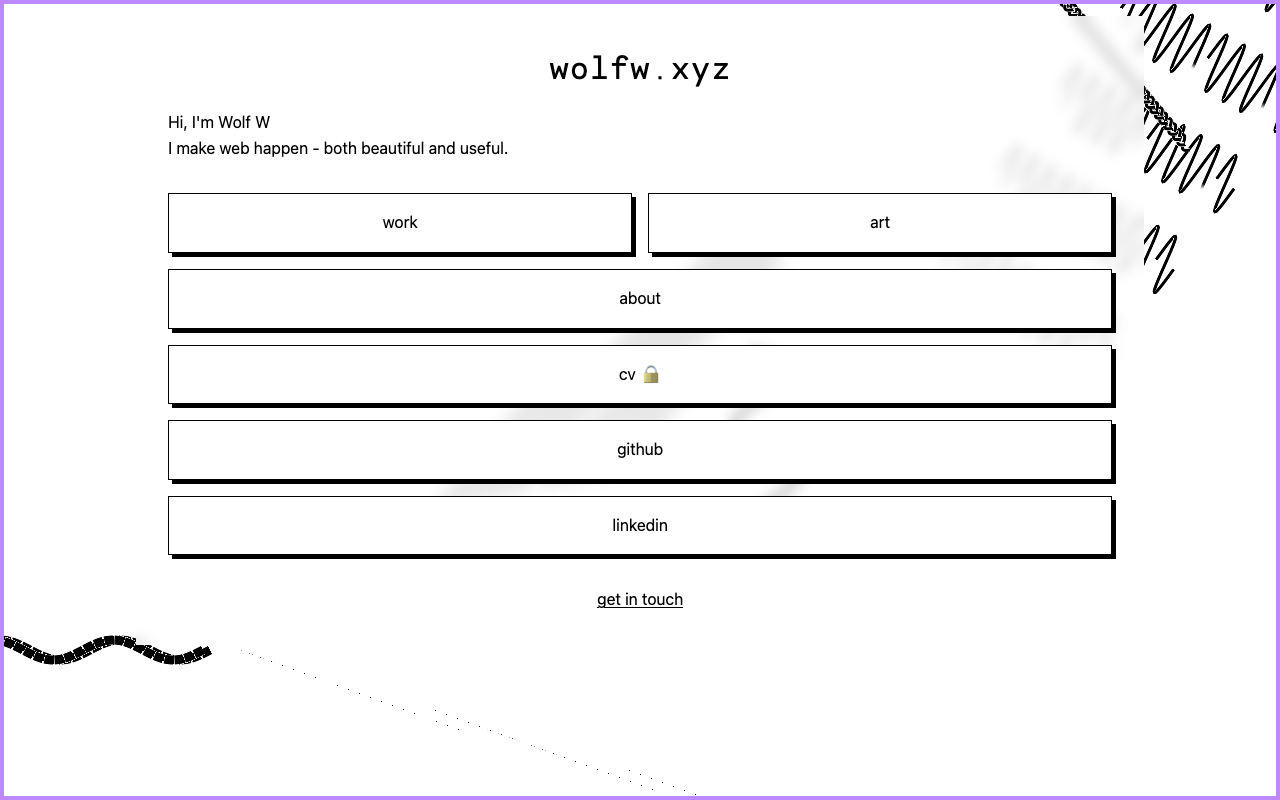
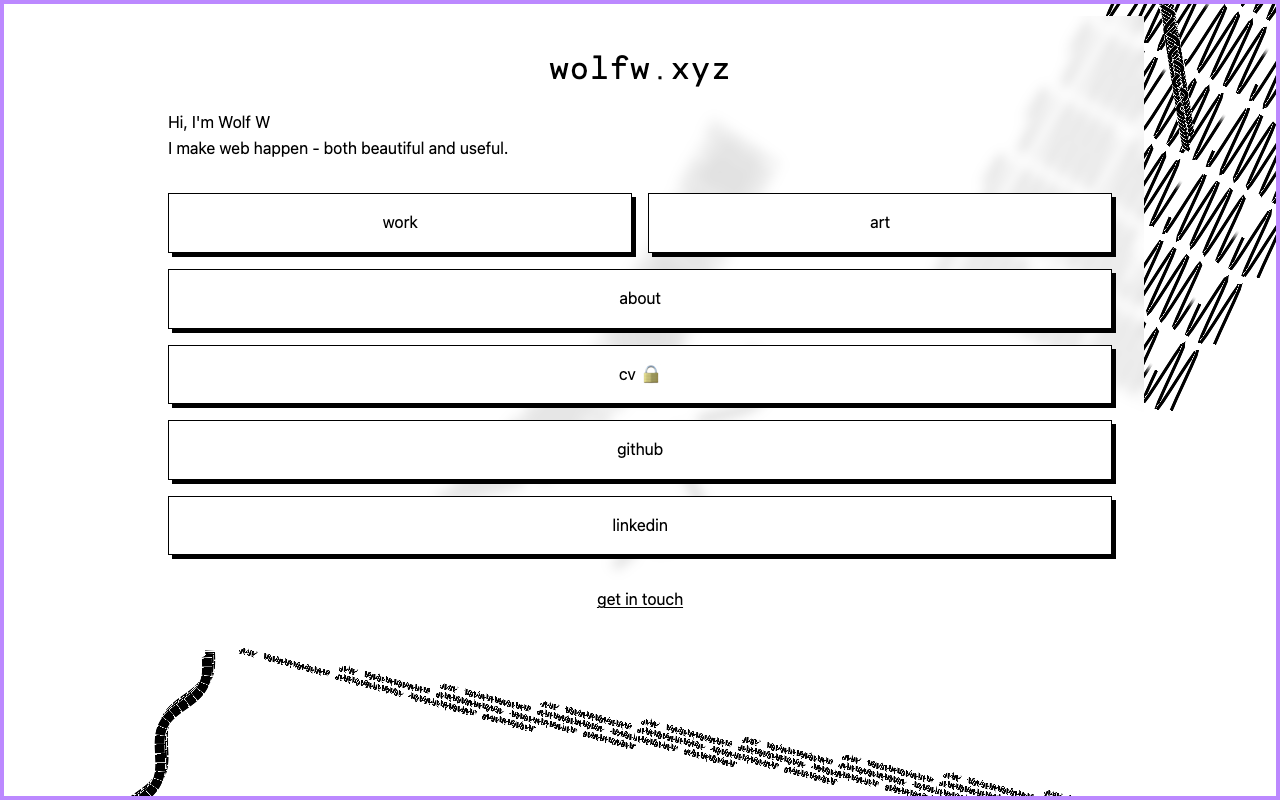
field: per-page seed — every page gets its own instance
visual-effects.md §2, "Interaction the field should own". R6.1 is
non-deterministic by design: every parameter randomised within [0.5v, 1.5v] on
each load via getRandomIntAround (recovered.md:306-322), so the range is the
contract. The first rebuild froze that to one hand-picked sample — a deliberate
trade — but had a consequence never stated: every page showed the identical
field, so /work and /cv were the same instance rather than the same species.

The seed is the pathname (Layout.astro passes Astro.url.pathname, which reaches
the renderer as data-seed on the canvas), hashed FNV-1a, driving a mulberry32
PRNG that picks a fresh point inside each element's [0.5v, 1.5v] range.

Measured: 31,028–102,965 px of difference between every pair of the four
representative routes; /work reloaded twice is pixel-identical except for the
breathing rotation between frames.

Two things it deliberately does NOT do:
- It does not touch the ranges. [0.5v, 1.5v] is the recovered contract; the
  seed only chooses a different point inside it.
- It does not randomise posX/posY. Those bases come from background.js:12-18
  and were chosen to keep all seven elements on the sheet; ±50% on a -430/+250
  base would push element 4 further off-screen.

Randomness is per-ROUTE rather than per-LOAD — a visitor who reloads sees the
same field. That is the reproducibility the design papers asked for and costs
nothing here because the field is decorative.
[…]

diff --git a/rebuild/src/lib/background.ts b/rebuild/src/lib/background.ts
@@ -83,6 +83,65 @@ const ELEMENTS = [
   { rotation: -45,  width: 1,  dash: 10,  freq: 10,  amp: 20, gridDist: 10,  offset: 1,   grid: 6,  total: 200, posX: 0,    posY: 0 },
 ];
 
+// ---------------------------------------------------------------------------
+// Per-page seed (visual-effects.md §2, "Interaction the field should own").
+//
+// R6.1 is non-deterministic by design: every parameter is randomised within
+// [0.5v, 1.5v] via getRandomIntAround on each load. The rebuild froze that to
+// one sample — a deliberate trade, documented above — which made every page
+// show the SAME field. The seed restores the original's per-page variation
+// without giving up reproducibility: the seed is the page's pathname, so
+// /work and /cv are visibly different instances of the same species, and the
+// same URL always produces the same field.
+//
+// Two things this deliberately does NOT do:
+//   - It does not touch the Ranges. [0.5v, 1.5v] is the contract; the seed
+//     only picks a different point inside it.
+//   - It does not randomise posX/posY. Those are the bases from
+//     background.js:12-18, already chosen to keep the elements on the sheet;
+//     ±50% on a -430/+250 base would push element 4 further off-screen.
+//
+// mulberry32 is used because it is tiny, fast, and well-distributed enough for
+// this; hashString (FNV-1a) turns the pathname into a 32-bit seed so any
+// string works.
+// ---------------------------------------------------------------------------
+function hashString(s: string): number {
+  let h = 2166136261;
+  for (let i = 0; i < s.length; i++) {
+    h ^= s.charCodeAt(i);
+    h = Math.imul(h, 16777619);
+  }
+  return h >>> 0;
+}
+
+function mulberry32(seed: number): () => number {
+  let a = seed >>> 0;
+  return () => {
+    a |= 0;
+    a = (a + 0x6d2b79f5) | 0;
+    let t = Math.imul(a ^ (a >>> 15), 1 | a);
+    t = (t + Math.imul(t ^ (t >>> 7), 61 | t)) ^ t;
+    return ((t ^ (t >>> 14)) >>> 0) / 4294967296;
+  };
+}
+
+function reseedElements(seed: string) {
+  const rand = mulberry32(hashString(seed));
+  const around = (v: number) => v * (0.5 + rand()); // getRandomIntAround
+  return ELEMENTS.map((e) => ({
+    ...e,
+    rotation: around(e.rotation),
+    width: around(e.width),
+    dash: around(e.dash),
+    freq: around(e.freq),
+    amp: around(e.amp),
+    gridDist: around(e.gridDist),
+    offset: around(e.offset),
+    grid: Math.max(1, Math.round(around(e.grid))),
+    total: around(e.total),
+  }));
+}
+
 const VERT_INSTANCED = `#version 300 es
 // vertex — instanced sine strips. No attribute buffers: geometry comes from
 // gl_VertexID / gl_InstanceID alone, exactly as the quad VERT gets its
@@ -251,7 +310,10 @@ function hexToRgb(hex: string): [number, number, number] {
   return [((v >> 16) & 255) / 255, ((v >> 8) & 255) / 255, (v & 255) / 255];
 }
 
-export function mountBackground(canvas: HTMLCanvasElement): () => void {
+export function mountBackground(
+  canvas: HTMLCanvasElement,
+  seed = "wolfw.xyz",
+): () => void {
   const gl = canvas.getContext("webgl2", {
     alpha: true,
     antialias: false, // we antialias in the shader; MSAA is wasted here
@@ -369,7 +431,8 @@ export function mountBackground(canvas: HTMLCanvasElement): () => void {
     // so element 0 failed its bounds check (invisible) and elements 1-6 read
     // another element's parameters (visual-effects.md §0).
     const params = new Float32Array(7 * 9);
-    ELEMENTS.forEach((e, i) => {
+    const seeded = reseedElements(seed);
+    seeded.forEach((e, i) => {
       const b = i * 9;
       params[b + 0] = e.rotation;
       params[b + 1] = e.width;
@@ -386,7 +449,7 @@ export function mountBackground(canvas: HTMLCanvasElement): () => void {
     // Position offsets. Legacy randomised these around viewport centre on every
     // load (background.js:12-18).
     const positions = new Float32Array(14);
-    ELEMENTS.forEach((e, i) => {
+    seeded.forEach((e, i) => {
       positions[i * 2] = e.posX;
       positions[i * 2 + 1] = e.posY;
     });

diff --git a/spec/desired.md b/spec/desired.md
@@ -418,6 +418,50 @@ head is coloured with a new token **`--c-field-hot`** (#bc89ff, the site's own
 page purple — the field colours itself in and then settles to ink), and
 pointer-driven amplitude swell. Both are off under reduced motion.
 
+### D4.15 The field is seeded per page (2026-10-13)
+
+**Origin:** `design/visual-effects.md` §2, "Interaction the field should own" ·
+**Decision:** accepted, shipped
+
+R6.1 is **non-deterministic by design**: every parameter is randomised within
+`[0.5v, 1.5v]` on each load via `getRandomIntAround`
+(`spec/recovered.md:306-322`), so there is no single correct value for any of
+them — the *range* is the contract. The first rebuild froze that to one hand-
+picked sample, a deliberate trade (`spec/gaps.md`), but it had a consequence that
+was never stated: **every page showed the identical field**, so `/work` and `/cv`
+were the same instance rather than the same species.
+
+The seed restores per-page variation without giving up reproducibility. The seed
+*is* the pathname (`Layout.astro` passes `Astro.url.pathname`, which reaches the
+renderer as `data-seed` on the canvas), hashed with FNV-1a and driving a
+mulberry32 PRNG that picks a fresh point inside each element's `[0.5v, 1.5v]`
+range. Measured on the four representative routes: **31,028–102,965 px of
+difference** between every pair, and `/work` reloaded twice is pixel-identical
+except for the breathing rotation between frames.
+
+Two things it deliberately does not do:
+
+- **It does not touch the ranges.** `[0.5v, 1.5v]` is the recovered contract;
+  the seed only chooses a different point inside it. Widening the range to make
+  pages differ more would be inventing behaviour.
+- **It does not randomise `posX`/`posY`.** Those bases come from
+  `background.js:12-18` and were already chosen to keep all seven elements on the
+  sheet; ±50 % on a −430/+250 base would push element 4 further off-screen, which
+  is the one thing the sample was chosen to avoid.
+
+The randomness is therefore per-*route* rather than per-*load*, which is a
+deliberate divergence from the legacy behaviour (which reseeded on every
+navigation). A visitor who reloads the same page sees the same field — that is
+the reproducibility the design papers asked for, and it costs nothing here
+because the field is decorative.
+
+`define:vars` was tried first and does not work in Astro: it injects the
+variable into the script's scope via `defineScriptVars`, but the variable is not
+in scope at the point the module script is hoisted and bundled, so the build
+fails with `seed is not defined`. A `data-` attribute on the canvas is the
+reliable interface, and it has the side benefit of being readable from the DOM
+for debugging.
+
 ### D4.9 Reduced motion is a hard requirement
 
 **Origin:** derived · **Decision:** proposed
